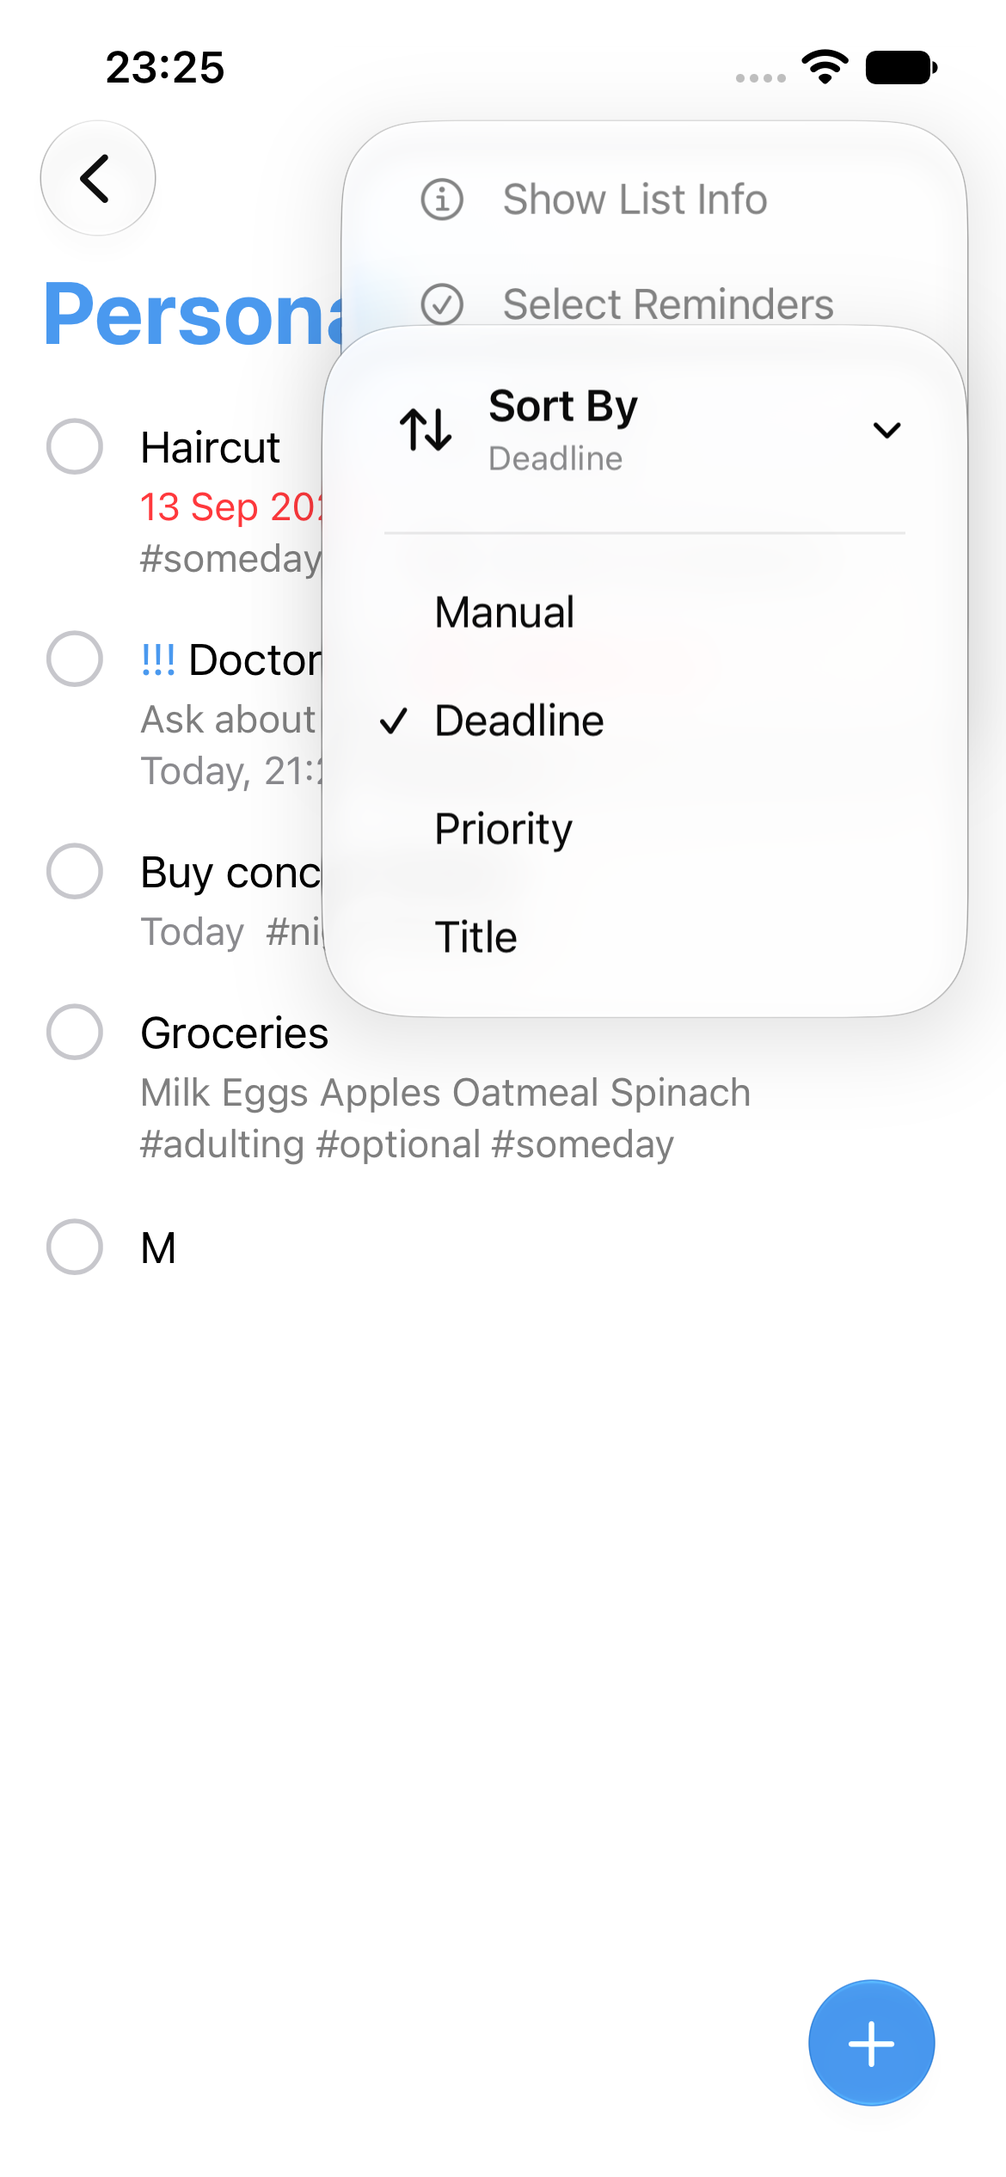
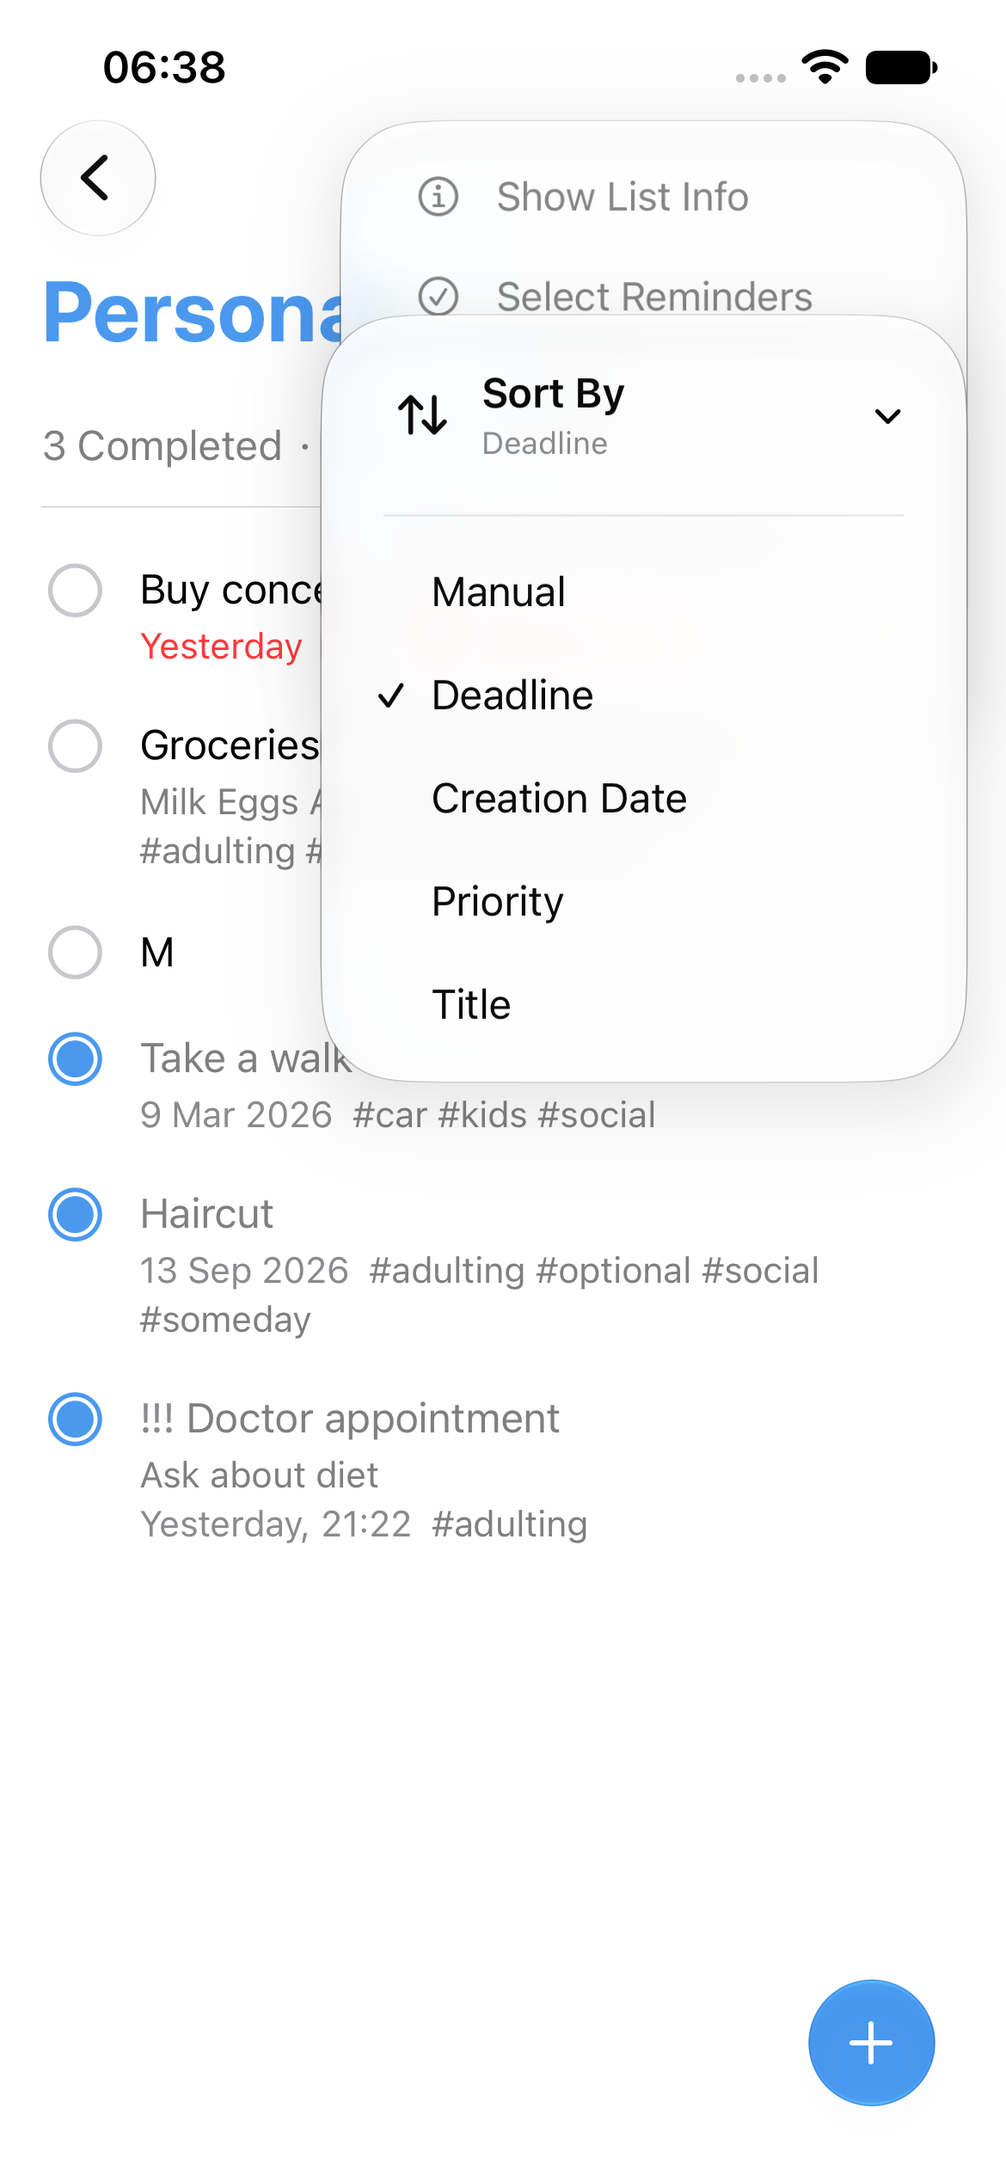
Order reminders by creation date
Reminder.created on the domain, a created column with a migration that dates earlier rows at the epoch, Ordering.creationDate, and the Sort By item; new reminders take the feature's clock.

diff --git a/Tests/Reminders Feature Tests/Reminder.Feature Tests.swift b/Tests/Reminders Feature Tests/Reminder.Feature Tests.swift
@@ -100,7 +100,7 @@ struct `Reminder feature` {
         try await until($pending) { $0.isEmpty }
         #expect(try await stored(groceries.id)?.completion == .completed)
         // From the home the plus opens the sheet (inside a list it edits a row in place).
-        let draft = Reminder(id: Reminder.ID(UUID(0)), list: personal)
+        let draft = Reminder(id: Reminder.ID(UUID(0)), list: personal, created: now)
         await store.send(.newReminderButtonTapped) {
             $0.destination = .reminder(snap(Reminder.Draft.Feature.State(reminder: draft, isNew: true, session: UUID(1))))
         }?.value
@@ -152,7 +152,7 @@ struct `Reminder feature` {
         let store = try await makeStore()
         await store.send(.listTapped(personal)) { $0.filter = .list(personal) }?.value
         let first = Reminder.ID(UUID(0))
-        let blank = Reminder(id: first, list: personal, position: 11)
+        let blank = Reminder(id: first, list: personal, position: 11, created: now)
         await store.send(.newReminderButtonTapped) { $0.editing = Reminder.Editing(blank, session: UUID(1)) }?.value
         // The new row is in the database at once, blank, and shown in the detail.
         #expect(try await stored(first)?.isBlank == true)
@@ -169,7 +169,7 @@ struct `Reminder feature` {
         place.title = "Milk"
         place.id = second
         place.position = blank.position + 1
-        let next = Reminder(id: second, list: personal, position: place.position)
+        let next = Reminder(id: second, list: personal, position: place.position, created: now)
         await store.send(.titleSubmitted) { $0.editing = Reminder.Editing(draft: next, saved: next, place: place, session: UUID(3)) }?.value
         try await until(store.state.$detail) { $0?.reminders.map(\.id).suffix(2) == [first, second] }
         await store.send(.doneButtonTapped) { $0.editing = nil }?.value
@@ -182,7 +182,7 @@ struct `Reminder feature` {
         let store = try await makeStore()
         await store.send(.listTapped(personal)) { $0.filter = .list(personal) }?.value
         let row = Reminder.ID(UUID(0))
-        let blank = Reminder(id: row, list: personal, position: 11)
+        let blank = Reminder(id: row, list: personal, position: 11, created: now)
         await store.send(.newReminderButtonTapped) { $0.editing = Reminder.Editing(blank, session: UUID(1)) }?.value
         await store.modify { $0[draft: row].title = "Bread" } changes: {
             $0.editing?.draft.title = "Bread"
@@ -273,7 +273,7 @@ struct `Reminder feature` {
         let store = try await makeStore()
         await store.send(.listTapped(personal)) { $0.filter = .list(personal) }?.value
         let row = Reminder.ID(UUID(0))
-        await store.send(.newReminderButtonTapped) { $0.editing = Reminder.Editing(Reminder(id: row, list: personal, position: 11), session: UUID(1)) }?.value
+        await store.send(.newReminderButtonTapped) { $0.editing = Reminder.Editing(Reminder(id: row, list: personal, position: 11, created: now), session: UUID(1)) }?.value
         await store.send(.datePresetSelected(row, .tomorrow)) { [now, calendar] in
             $0.editing?.draft.set(datePreset: .tomorrow, at: now, calendar: calendar)
             let draft = $0.editing!.draft
@@ -414,7 +414,7 @@ struct `Reminder feature` {
         await store.send(.backgroundTapped)?.value
         await store.send(.listTapped(personal)) { $0.filter = .list(personal) }?.value
         let row = Reminder.ID(UUID(0))
-        let blank = Reminder(id: row, list: personal, position: 11)
+        let blank = Reminder(id: row, list: personal, position: 11, created: now)
         await store.send(.backgroundTapped) { $0.editing = Reminder.Editing(blank, session: UUID(1)) }?.value
         await store.modify { $0[draft: row].title = "Bread" } changes: {
             $0.editing?.draft.title = "Bread"
@@ -591,9 +591,9 @@ struct `Reminder feature` {
         #expect(try await database.read { db in try List<Reminder>.Record.all.fetchCount(db) } == 3)
         await store.send(.destination(.list(.cancelButtonTapped))) { $0.destination = nil }?.value
         // A reminder whose list is deleted while its sheet is open cannot be saved: the draft stays.
-        let draft = Reminder(id: Reminder.ID(UUID(2)), list: personal, title: "Orphan")
+        let draft = Reminder(id: Reminder.ID(UUID(2)), list: personal, title: "Orphan", created: now)
         await store.send(.newReminderButtonTapped) {
-            $0.destination = .reminder(snap(Reminder.Draft.Feature.State(reminder: Reminder(id: draft.id, list: personal), isNew: true, session: UUID(3))))
+            $0.destination = .reminder(snap(Reminder.Draft.Feature.State(reminder: Reminder(id: draft.id, list: personal, created: now), isNew: true, session: UUID(3))))
         }?.value
         await store.modify {
             if case var .reminder(form) = $0.destination { form.reminder.title = "Orphan"; $0.destination = .reminder(form) }

diff --git a/Sources/Reminders Application/Reminder.Sample.swift b/Sources/Reminders Application/Reminder.Sample.swift
@@ -39,17 +39,17 @@ extension Reminder {
                 List(id: business, title: "Business", color: Color(red: 178 / 255, green: 93 / 255, blue: 211 / 255), position: 2),
             ],
             reminders: [
-                Reminder(id: Reminder.ID(id(10)), list: personal, title: "Groceries", notes: "Milk\nEggs\nApples\nOatmeal\nSpinach", tags: ["someday", "optional", "adulting"], position: 0),
-                Reminder(id: Reminder.ID(id(11)), list: personal, title: "Haircut", due: .day(day(-2)), flagged: true, tags: ["someday", "optional"], position: 1),
-                Reminder(id: Reminder.ID(id(12)), list: personal, title: "Doctor appointment", notes: "Ask about diet", due: .moment(now), priority: .high, tags: ["adulting"], position: 2),
-                Reminder(id: Reminder.ID(id(13)), list: personal, title: "Take a walk", due: .day(day(-190)), completion: .completed, tags: ["car", "kids", "social"], position: 3),
-                Reminder(id: Reminder.ID(id(14)), list: personal, title: "Buy concert tickets", due: .day(now), tags: ["social", "night"], position: 4),
-                Reminder(id: Reminder.ID(id(15)), list: family, title: "Pick up kids from school", due: .moment(day(2)), flagged: true, priority: .high, position: 5),
-                Reminder(id: Reminder.ID(id(16)), list: family, title: "Get laundry", due: .day(day(-2)), priority: .low, completion: .completed, position: 6),
-                Reminder(id: Reminder.ID(id(17)), list: family, title: "Take out trash", due: .day(day(4)), priority: .high, position: 7),
-                Reminder(id: Reminder.ID(id(18)), list: business, title: "Call accountant", notes: "Status of tax return\nExpenses for next year\nChanging payroll company", due: .day(day(2)), position: 8),
-                Reminder(id: Reminder.ID(id(19)), list: business, title: "Send weekly emails", due: .day(day(-2)), priority: .medium, completion: .completed, position: 9),
-                Reminder(id: Reminder.ID(id(20)), list: business, title: "Prepare for WWDC", due: .day(day(2)), tags: ["social"], position: 10),
+                Reminder(id: Reminder.ID(id(10)), list: personal, title: "Groceries", notes: "Milk\nEggs\nApples\nOatmeal\nSpinach", tags: ["someday", "optional", "adulting"], position: 0, created: day(-30)),
+                Reminder(id: Reminder.ID(id(11)), list: personal, title: "Haircut", due: .day(day(-2)), flagged: true, tags: ["someday", "optional"], position: 1, created: day(-9)),
+                Reminder(id: Reminder.ID(id(12)), list: personal, title: "Doctor appointment", notes: "Ask about diet", due: .moment(now), priority: .high, tags: ["adulting"], position: 2, created: day(-3)),
+                Reminder(id: Reminder.ID(id(13)), list: personal, title: "Take a walk", due: .day(day(-190)), completion: .completed, tags: ["car", "kids", "social"], position: 3, created: day(-200)),
+                Reminder(id: Reminder.ID(id(14)), list: personal, title: "Buy concert tickets", due: .day(now), tags: ["social", "night"], position: 4, created: day(-1)),
+                Reminder(id: Reminder.ID(id(15)), list: family, title: "Pick up kids from school", due: .moment(day(2)), flagged: true, priority: .high, position: 5, created: day(-5)),
+                Reminder(id: Reminder.ID(id(16)), list: family, title: "Get laundry", due: .day(day(-2)), priority: .low, completion: .completed, position: 6, created: day(-12)),
+                Reminder(id: Reminder.ID(id(17)), list: family, title: "Take out trash", due: .day(day(4)), priority: .high, position: 7, created: day(-2)),
+                Reminder(id: Reminder.ID(id(18)), list: business, title: "Call accountant", notes: "Status of tax return\nExpenses for next year\nChanging payroll company", due: .day(day(2)), position: 8, created: day(-7)),
+                Reminder(id: Reminder.ID(id(19)), list: business, title: "Send weekly emails", due: .day(day(-2)), priority: .medium, completion: .completed, position: 9, created: day(-14)),
+                Reminder(id: Reminder.ID(id(20)), list: business, title: "Prepare for WWDC", due: .day(day(2)), tags: ["social"], position: 10, created: day(-4)),
             ],
             tags: Set(["car", "kids", "someday", "optional", "social", "night", "adulting"].map(Tag<Reminder>.init(title:)))
         )

diff --git a/Sources/Reminders Feature/Reminder.Feature.swift b/Sources/Reminders Feature/Reminder.Feature.swift
@@ -219,7 +219,7 @@ extension Reminder {
                     if case let .list(list) = state.filter {
                         startNewReminder(in: list, &state)
                     } else if let list = state.overview.lists.first?.id {
-                        state.destination = .reminder(Reminder.Draft.Feature.State(reminder: Reminder(id: Reminder.ID(uuid()), list: list), isNew: true, session: uuid()))
+                        state.destination = .reminder(Reminder.Draft.Feature.State(reminder: Reminder(id: Reminder.ID(uuid()), list: list, created: now), isNew: true, session: uuid()))
                     }
                 case let .orderingSelected(ordering):
                     guard let filter = state.filter else { break }
@@ -495,7 +495,7 @@ extension Reminder.Feature {
             try await attempt {
                 let reminder = try write { db in
                     try commit(previous, in: db)
-                    try Reminder.Record.insert { Reminder.Record(Reminder(id: id, list: list)) }.execute(db)
+                    try Reminder.Record.insert { Reminder.Record(Reminder(id: id, list: list, created: now)) }.execute(db)
                     try Reminder.Record.placeLast(id).execute(db)
                     try Reminder.Session.Record.set(editing: id).execute(db)
                     return try Reminder.Record.find(id).rows().fetchOne(db)?.value
@@ -537,7 +537,7 @@ extension Reminder.Feature {
                         try Reminder.Session.Record.set(editing: nil).execute(db)
                         return Reminder.Editing?.none
                     }
-                    let next = Reminder(id: id, list: anchor.list, position: anchor.position + 1)
+                    let next = Reminder(id: id, list: anchor.list, position: anchor.position + 1, created: now)
                     try Reminder.Record.makeRoom(after: anchor.position).execute(db)
                     try Reminder.Record.insert { Reminder.Record(next) }.execute(db)
                     try Reminder.Session.Record.set(editing: id).execute(db)

diff --git a/Tests/Reminders SQLiteData Tests/Reminder SQLiteData Tests.swift b/Tests/Reminders SQLiteData Tests/Reminder SQLiteData Tests.swift
@@ -88,6 +88,9 @@ import Tagged
         #expect(detail.reminders.map(\.title) == ["Doctor appointment", "Haircut", "Groceries", "Buy concert tickets"])
         try database.write { db in try Reminder.Filter.Preference.Record.set(ordering: .title, for: personal).execute(db) }
         #expect(try self.detail(personal, database).reminders.map(\.title) == ["Buy concert tickets", "Doctor appointment", "Groceries", "Haircut"])
+        // Creation Date: oldest first (the sample dates Groceries 30 days back, Buy concert tickets 1).
+        try database.write { db in try Reminder.Filter.Preference.Record.set(ordering: .creationDate, for: personal).execute(db) }
+        #expect(try self.detail(personal, database).reminders.map(\.title) == ["Groceries", "Haircut", "Doctor appointment", "Buy concert tickets"])
         try database.write { db in try Reminder.Filter.Preference.Record.toggleShowCompleted(for: personal).execute(db) }
         detail = try self.detail(personal, database)
         #expect(detail.preference.showCompleted && detail.reminders.map(\.title).last == "Take a walk")
@@ -376,6 +379,7 @@ import Tagged
         #expect(try stored(first, database)?.tags == ["Café"])
         #expect(try stored(second, database)?.tags == ["Café", "car"])
         #expect(try stored(first, database)?.title == "Bread")
+        #expect(try stored(first, database)?.created == Date(timeIntervalSince1970: 0))
         #expect(try database.read { db in try Reminder.Tagging.all.fetchCount(db) } == 3)
         // The rebuilt tables keep their constraints: a tag deleted takes its links.
         try database.write { db in try Tag<Reminder>.Record.delete("café").execute(db) }

diff --git a/Sources/Reminders/Reminder.Ordering.swift b/Sources/Reminders/Reminder.Ordering.swift
@@ -3,14 +3,14 @@ import Foundation
 extension Reminder {
     /// The raw value is the stored key; the cases are in the stock menu's order.
     public enum Ordering: String, CaseIterable, Hashable, Sendable {
-        case manual, dueDate, priority, title
+        case manual, dueDate, creationDate, priority, title
     }
 }
 
 extension Reminder.Ordering {
     /// The order a detail shows under the ordering, ties broken by position as the manual
-    /// order has it: due dates ascending with none last, priorities descending then flagged
-    /// first, titles as the locale compares them ignoring case.
+    /// order has it: due dates ascending with none last, creation dates ascending, priorities
+    /// descending then flagged first, titles as the locale compares them ignoring case.
     public static func areInIncreasingOrder(_ lhs: Reminder, _ rhs: Reminder, for ordering: Self) -> Bool {
         switch ordering {
         case .manual:
@@ -22,6 +22,8 @@ extension Reminder.Ordering {
             case (.some, nil): true
             default: lhs.position < rhs.position
             }
+        case .creationDate:
+            lhs.created != rhs.created ? lhs.created < rhs.created : lhs.position < rhs.position
         case .priority:
             if lhs.priority != rhs.priority {
                 (lhs.priority?.rawValue ?? 0) > (rhs.priority?.rawValue ?? 0)

diff --git a/Sources/Reminders SQLiteData/Reminder.Record+Queries.swift b/Sources/Reminders SQLiteData/Reminder.Record+Queries.swift
@@ -110,10 +110,12 @@ extension Reminder.Record.TableColumns {
         let priority = placed(priority, place?.priority?.rawValue, of: place)
         let flagged = placed(flagged, place?.flagged ?? false, of: place)
         let title = placed(title, place?.title ?? "", of: place)
+        let created = placed(created, place?.created ?? .distantPast, of: place)
         let completed = placed(isCompleted, place?.completed ?? false, of: place)
         var fragment: QueryFragment = showCompleted ? "\(completed), " : ""
         switch ordering {
         case .dueDate: fragment.append("\(due.asc(nulls: .last)), \(position)")
+        case .creationDate: fragment.append("\(created), \(position)")
         case .manual: fragment.append("\(position)")
         case .priority: fragment.append("\(priority.ifnull(0).desc()), \(flagged.desc()), \(position)")
         case .title: fragment.append("\(title.collate($localizedCaseInsensitive)), \(position)")

diff --git a/Sources/Reminders/Reminder.swift b/Sources/Reminders/Reminder.swift
@@ -18,6 +18,9 @@ public struct Reminder: Identifiable, Hashable, Sendable {
     public var position: Int
     public var location: Location?
     public var repeats: Repeat
+    /// When the reminder came to be; the Creation Date ordering. A value made without a clock
+    /// dates from before any record.
+    public var created: Date
 
     public init(
         id: ID,
@@ -31,7 +34,8 @@ public struct Reminder: Identifiable, Hashable, Sendable {
         tags: Set<Tag<Reminder>.ID> = [],
         position: Int = 0,
         location: Location? = nil,
-        repeats: Repeat = .never
+        repeats: Repeat = .never,
+        created: Date = .distantPast
     ) {
         self.id = id
         self.list = list
@@ -45,6 +49,7 @@ public struct Reminder: Identifiable, Hashable, Sendable {
         self.position = position
         self.location = location
         self.repeats = repeats
+        self.created = created
     }
 }
 

diff --git a/Sources/Reminders SQLiteData/Schema.swift b/Sources/Reminders SQLiteData/Schema.swift
@@ -141,6 +141,11 @@ extension Reminder.Schema {
             try #sql(#"ALTER TABLE "reminders_new" RENAME TO "reminders""#).execute(db)
             try #sql(#"CREATE INDEX "idx_reminders_listID" ON "reminders"("listID")"#).execute(db)
         }
+        // The Creation Date ordering needs a timestamp. Rows from before the column are dated
+        // at the epoch, so among themselves they keep the manual order.
+        migrator.registerMigration("Record when a reminder was created") { db in
+            try #sql(#"ALTER TABLE "reminders" ADD COLUMN "created" TEXT NOT NULL ON CONFLICT REPLACE DEFAULT '1970-01-01 00:00:00.000' CHECK ("created" GLOB '[0-9][0-9][0-9][0-9]-[0-9][0-9]-[0-9][0-9] [0-9][0-9]:[0-9][0-9]:[0-9][0-9].[0-9][0-9][0-9]')"#).execute(db)
+        }
         if let target {
             try migrator.migrate(database, upTo: target)
         } else {

diff --git a/Sources/Reminders SQLiteData/Reminder.Record.swift b/Sources/Reminders SQLiteData/Reminder.Record.swift
@@ -24,6 +24,7 @@ extension Reminder {
         public var position = 0
         public var location: String?
         public var repeats = "never"
+        public var created: Date
 
         public init(_ reminder: Reminder) {
             id = reminder.id
@@ -38,6 +39,7 @@ extension Reminder {
             position = reminder.position
             location = reminder.location?.rawValue
             repeats = reminder.repeats.rawValue
+            created = reminder.created
         }
     }
 
@@ -82,7 +84,8 @@ extension Reminder.Record {
             tags: tags,
             position: position,
             location: location.flatMap(Reminder.Location.init(rawValue:)),
-            repeats: Reminder.Repeat(rawValue: repeats) ?? .never
+            repeats: Reminder.Repeat(rawValue: repeats) ?? .never,
+            created: created
         )
     }
 }

diff --git a/reminders-apple/Tests/Reminders View Tests/Reminder.View Tests.swift b/reminders-apple/Tests/Reminders View Tests/Reminder.View Tests.swift
@@ -12,7 +12,7 @@ import Testing
     let list = List<Reminder>.ID(UUID())
 
     @Test func `the sort menu and the chips name the domain's values as the stock app does`() {
-        #expect(Reminder.Ordering.allCases.map(\.title) == ["Manual", "Deadline", "Priority", "Title"])
+        #expect(Reminder.Ordering.allCases.map(\.title) == ["Manual", "Deadline", "Creation Date", "Priority", "Title"])
         #expect(Reminder.Priority.allCases.map(\.title) == ["Low", "Medium", "High"])
         #expect(Reminder.Priority.allCases.map(\.marks) == ["!", "!!", "!!!"])
         #expect(Reminder.Repeat.allCases.map(\.title) == ["Never", "Daily", "Weekly", "Monthly", "Yearly"])

diff --git a/Tests/Reminders Tests/Reminder Tests.swift b/Tests/Reminders Tests/Reminder Tests.swift
@@ -109,6 +109,8 @@ import Tagged
         #expect(sorted(.dueDate) == ["Apple", "cherry", "banana"])
         #expect(sorted(.priority) == ["Apple", "cherry", "banana"])
         #expect(sorted(.title) == ["Apple", "banana", "cherry"])
+        (a.created, b.created, c.created) = (now, now.addingTimeInterval(-.day), now)
+        #expect(sorted(.creationDate) == ["Apple", "banana", "cherry"])
         var d = a
         d.title = "Banana"
         d.position = -1

diff --git a/reminders-apple/Sources/Reminders View/Reminder+Titles.swift b/reminders-apple/Sources/Reminders View/Reminder+Titles.swift
@@ -42,6 +42,7 @@ extension Reminder.Ordering {
     public var title: String {
         switch self {
         case .dueDate: "Deadline"
+        case .creationDate: "Creation Date"
         case .manual: "Manual"
         case .priority: "Priority"
         case .title: "Title"
